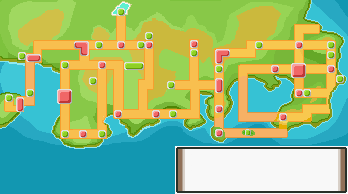
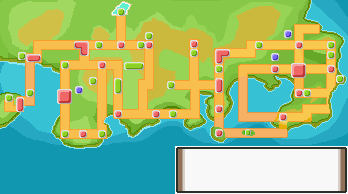
Added more locations to HGSS

diff --git a/games/hgss.js b/games/hgss.js
@@ -28,20 +28,26 @@ var hgss = {
         blackthorn:    {x: 145, y: 41,  w: 8,  h: 8,  name: "Blackthorn City"   },
         indigoplateau: {x: 190, y: 40,  w: 8,  h: 8,  name: "Indigo Plateau"    },
 
-        pallet:    {x: 215, y: 105, w: 8,  h: 8,  name: "Pallet Town"     },
-        viridian:  {x: 215, y: 78,  w: 8,  h: 15, name: "Viridian City"   },
-        pewter:    {x: 215, y: 49,  w: 15, h: 15, name: "Pewter City"     },
-        cerulean:  {x: 295, y: 41,  w: 8,  h: 8,  name: "Cerulean City"   },
-        vermilion: {x: 295, y: 89,  w: 8,  h: 8,  name: "Vermilion City"  },
-        lavender:  {x: 327, y: 65,  w: 8,  h: 8,  name: "Lavender Town"   },
-        celadon:   {x: 271, y: 65,  w: 8,  h: 8,  name: "Celadon City"    },
-        saffron:   {x: 291, y: 63,  w: 15, h: 15, name: "Saffron City"    },
-        fuchsia:   {x: 279, y: 113, w: 8,  h: 8,  name: "Fuchsia City"    },
-        cinnabar:  {x: 215, y: 129, w: 8,  h: 8,  name: "Cinnabar Island" },
+        pallet:     {x: 215, y: 105, w: 8,  h: 8,  name: "Pallet Town"     },
+        viridian:   {x: 215, y: 78,  w: 8,  h: 15, name: "Viridian City"   },
+        pewter:     {x: 215, y: 49,  w: 15, h: 15, name: "Pewter City"     },
+        cerulean:   {x: 295, y: 41,  w: 8,  h: 8,  name: "Cerulean City"   },
+        vermillion: {x: 295, y: 89,  w: 8,  h: 8,  name: "Vermilion City"  },
+        lavender:   {x: 327, y: 65,  w: 8,  h: 8,  name: "Lavender Town"   },
+        celadon:    {x: 271, y: 65,  w: 8,  h: 8,  name: "Celadon City"    },
+        saffron:    {x: 291, y: 63,  w: 15, h: 15, name: "Saffron City"    },
+        fuchsia:    {x: 279, y: 113, w: 8,  h: 8,  name: "Fuchsia City"    },
+        cinnabar:   {x: 215, y: 129, w: 8,  h: 8,  name: "Cinnabar Island" },
 
         // Routes
-        
+        r30_r31:      {x: 114, y: 78, w: 8, h: 16, name: "Route 30\nRoute 31"     },
+		ragelake_r43: {x: 117, y: 8,  w: 8, h: 8,  name: "Lake of Rage\nRoute 43" },
+
         // Important locations
+		goldenrodstore: {x: 75, y: 86, w: 8, h: 8, name: "Goldenrod\nDepartment Store" },
+
+		ceruleancave: {x: 284, y: 30, w: 8, h:8, name: "Cerulean Cave" },
+		celadonstore: {x: 271, y: 53, w: 8, h:8, name: "Celadon\nDepartment Store" },
     },
 
     // Undefined fields:
@@ -55,11 +61,11 @@ var hgss = {
 			right: {x: 292, y: 324 },
         },
         cherrygrove: {
-            mart:   {x: 474, y: 22  },
-			center: {x: 377, y: 84  },
-			house1: {x: 280, y: 142 },
-			house2: {x: 409, y: 177 },
-			house3: {x: 504, y: 215 },
+			mart:   {x: 175, y: 48  },
+			center: {x: 307, y: 48  },
+			house1: {x: 43,  y: 152 },
+			house2: {x: 214, y: 176 },
+			house3: {x: 357, y: 232 },
         },
         violet: {
             sprout:   {x: 383, y: 52  },
@@ -157,9 +163,9 @@ var hgss = {
         },
 
         pallet: {
-			main:  {x: 88,  y: 50  },
-			rival: {x: 221, y: 50  },
-			lab:   {x: 197, y: 143 },
+			main:  {x: 125, y: 98  },
+			rival: {x: 301, y: 98  },
+			lab:   {x: 305, y: 224 },
         },
         viridian: {
 			gate:   {x: 88,  y: 181 },
@@ -247,12 +253,62 @@ var hgss = {
 			botgate:   {x: 127, y: 539 },
         },
         cinnabar: {
-			center: {x: 186, y: 151},
+			center: {x: 238, y: 304 },
         },
 
         // Routes
+		r30_r31: {
+			berry:    {x: 142, y: 297, name: "Route 30" },
+			lab:      {x: 460, y: 274, name: "Route 30" },
+			darkcave: {x: 408, y: 74,  name: "Route 31" },
+			gate:     {x: 101, y: 92,  name: "Route 31" },
+		},
+		ragelake_r43: {
+			water:    {x: 79,  y: 117, name: "Lake of Rage"    },
+			land:     {x: 275, y: 124, name: "Lake of Rage"    },
+			entrance: {x: 74,  y: 336, name: "Route 43 (Lake)" },
+			gatetop:  {x: 276, y: 223, name: "Route 43 (Lake)" },
+			gatebot:  {x: 278, y: 370, name: "Route 43 (Lake)" },
+        },
 
         // Important locations
+		goldenrodstore: {
+			f1_door: {x: 193, y: 555, name: "Goldenrod Store" },
+			f1_up:   {x: 186, y: 460, name: "Goldenrod Store" },
+			f2_up:   {x: 186, y: 260, name: "Goldenrod Store" },
+			f2_down: {x: 296, y: 340, name: "Goldenrod Store" },
+			f3_up:   {x: 186, y: 55,  name: "Goldenrod Store" },
+			f3_down: {x: 296, y: 135, name: "Goldenrod Store" },
+			f4_up:   {x: 587, y: 470, name: "Goldenrod Store" },
+			f4_down: {x: 702, y: 535, name: "Goldenrod Store" },
+			f5_up:   {x: 587, y: 260, name: "Goldenrod Store" },
+			f5_down: {x: 702, y: 340, name: "Goldenrod Store" },
+			f6_down: {x: 702, y: 135, name: "Goldenrod Store" },
+			bf1:     {x: 373, y: 624, name: "Goldenrod Store" },
+		},
+
+		ceruleancave: {
+			main_right1:   {x: 604, y: 23  },
+			main_right2:   {x: 602, y: 195 },
+			main_entrance: {x: 505, y: 441 },
+			main_mid1:     {x: 444, y: 202 },
+			main_mid2:     {x: 269, y: 253 },
+			main_left1:    {x: 150, y: 331 },
+			main_left2:    {x: 74,  y: 460 },
+		},
+		celadonstore: {
+			f1_door: {x: 193, y: 555, name: "Celadon Store" },
+			f1_up:   {x: 100, y: 484, name: "Celadon Store" },
+			f2_up:   {x: 100, y: 282, name: "Celadon Store" },
+			f2_down: {x: 180, y: 359, name: "Celadon Store" },
+			f3_up:   {x: 100, y: 76,  name: "Celadon Store" },
+			f3_down: {x: 180, y: 155, name: "Celadon Store" },
+			f4_up:   {x: 473, y: 484, name: "Celadon Store" },
+			f4_down: {x: 574, y: 555, name: "Celadon Store" },
+			f5_up:   {x: 473, y: 282, name: "Celadon Store" },
+			f5_down: {x: 574, y: 359, name: "Celadon Store" },
+			f6_down: {x: 574, y: 155, name: "Celadon Store" },
+		},
     },
 
     // Numbers are meant to be to check if exist any marks/progress in the maps

diff --git a/main.js b/main.js
@@ -10,8 +10,8 @@ let context;
 const LINKTYPE_WARP = "warp";
 const LINKTYPE_MARK = "mark";
 
-const CACHE_GAME_LOADED   = "last-game-loaded";
-const CACHE_SMOOTH_IMAGES = "smooth-images";
+const CACHE_GAME_LOADED    = "last-game-loaded";
+const CACHE_SMOOTH_IMAGES  = "smooth-images";
 const CACHE_DEBUG_LOCATION = "debug-location"
 
 let ordered_games = [ // Games will be shown in the settings in order
